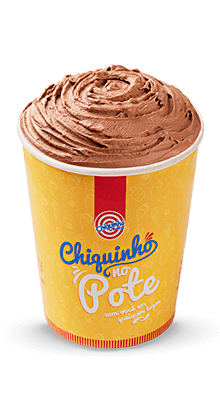
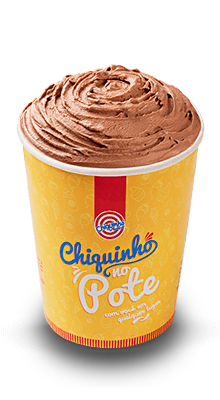
Background maior, fotos alteradas e nome adicionado

Changed region(s): [[0.1364, 0.75, 0.8727, 0.96]]

diff --git a/lib/screens/product_screen.dart b/lib/screens/product_screen.dart
@@ -24,7 +24,7 @@ class _ProductScreenState extends State<ProductScreen> {
       body: Stack(
         children: [
           ProductBackground(
-            screenHeight: MediaQuery.of(context).size.height * 0.5,
+            screenHeight: MediaQuery.of(context).size.height * 0.53,
             colorId: widget.sorvete.categoriaId,
           ),
           SafeArea(
@@ -32,7 +32,7 @@ class _ProductScreenState extends State<ProductScreen> {
               child: Column(
                 children: [
                   Padding(
-                    padding: EdgeInsets.symmetric(horizontal: 10, vertical: 10),
+                    padding: EdgeInsets.symmetric(horizontal: 20, vertical: 10),
                     child: Row(
                       mainAxisAlignment: MainAxisAlignment.spaceBetween,
                       children: [
@@ -50,6 +50,20 @@ class _ProductScreenState extends State<ProductScreen> {
                             size: 30,
                           ),
                         ),
+                        Padding(
+                          padding: EdgeInsets.only(right: 10),
+                          child: Text(
+                            widget.sorvete.nome,
+                            style: TextStyle(
+                              fontSize: 24,
+                              color: widget.sorvete.categoriaId == 3 ||
+                                      widget.sorvete.categoriaId == 4 ||
+                                      widget.sorvete.categoriaId == 5
+                                  ? Colors.black87
+                                  : Palette.scaffoldBackground,
+                            ),
+                          ),
+                        )
                       ],
                     ),
                   ),
@@ -59,12 +73,9 @@ class _ProductScreenState extends State<ProductScreen> {
                       children: [
                         Image.asset(
                           widget.sorvete.imagePath,
-                          fit: widget.sorvete.categoriaId == 4 ||
-                                  widget.sorvete.categoriaId == 5
-                              ? BoxFit.cover
-                              : BoxFit.contain,
-                          height: 240,
-                          width: widget.sorvete.categoriaId == 4 ? 160 : 240,
+                          fit: BoxFit.contain,
+                          height: widget.sorvete.categoriaId == 4 ? 260 : 240,
+                          width: 240,
                         ),
                       ],
                     ),
